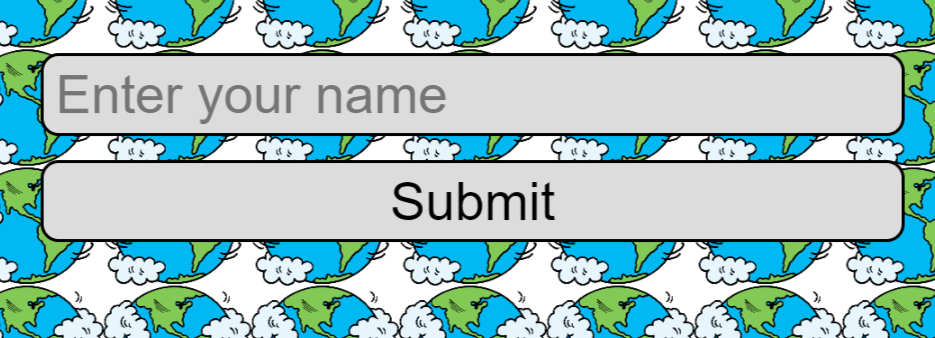
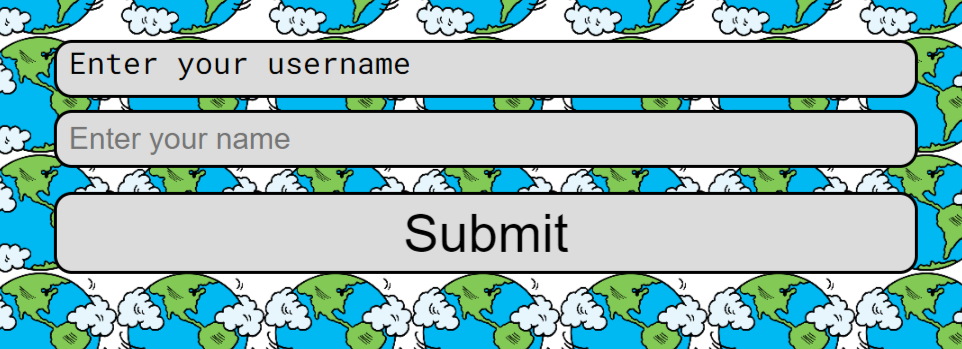
add updated username input to features on readme

diff --git a/index.html b/index.html
@@ -30,8 +30,8 @@
         </div>
         <!--container for both username input and submit username button-->
         <div id="username_container">
-            <label for="username" id="username">Enter your username</label>
-            <input type="text" id="username" placeholder="Enter your name">
+            
+            <label for="username" id="username">Enter your username:</label><input type="text" id="username" placeholder="Enter your name">
             <button type="submit" id="submit" onclick="submitUsername()" aria-label="submit username">Submit</button>
         </div>
         <!--username response message-->

diff --git a/assets/javascript/script.js b/assets/javascript/script.js
@@ -202,7 +202,7 @@ options.forEach(option => {
                 timer: 1500,
               });
         }
-        setTimeout(getNewQuestion, 2000);
+        setTimeout(getNewQuestion, 1750);
         
     })
     

diff --git a/README.md b/README.md
@@ -49,7 +49,7 @@ I have chosen two fonts to use on the website, these are:
 * Upon clicking the lets play button the user will be have the ability to enter a username.
 
 #### Username input
-![username input](assets/images/readme/usernameinput.png)
+![username input](assets/images/readme/usernameinput.png
 * The username input allows users to enter a username and the webpage will respond provided the username is between 2 and 9 characters.
 * Upon entering the username the webpage will greet the user by their given name.
 
